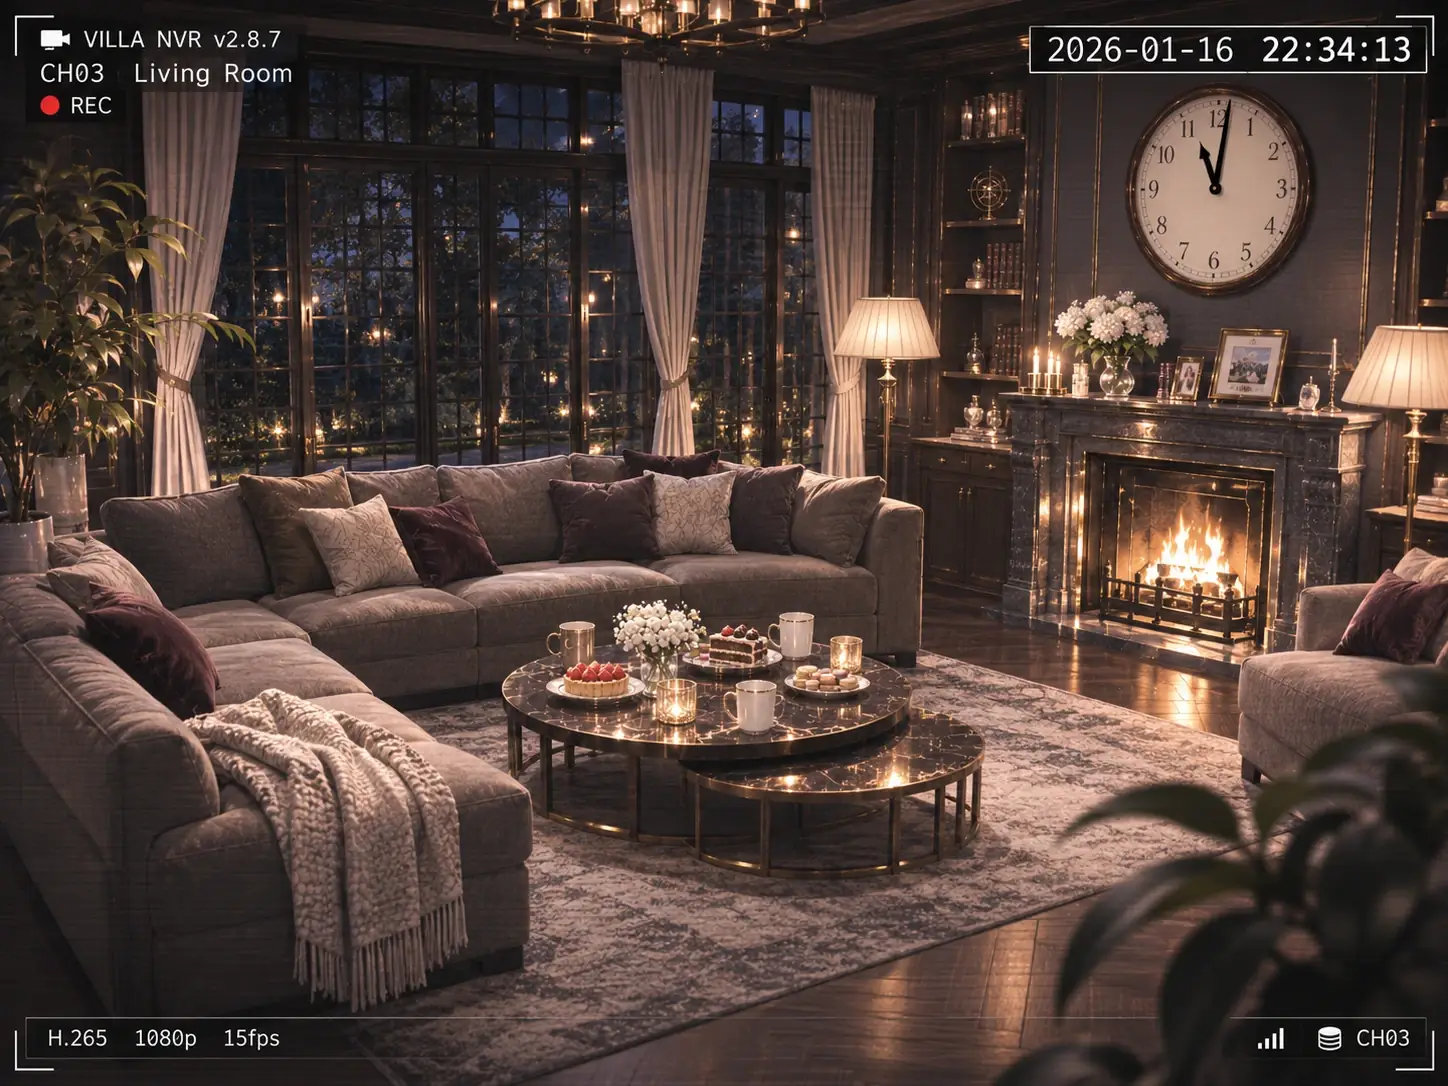
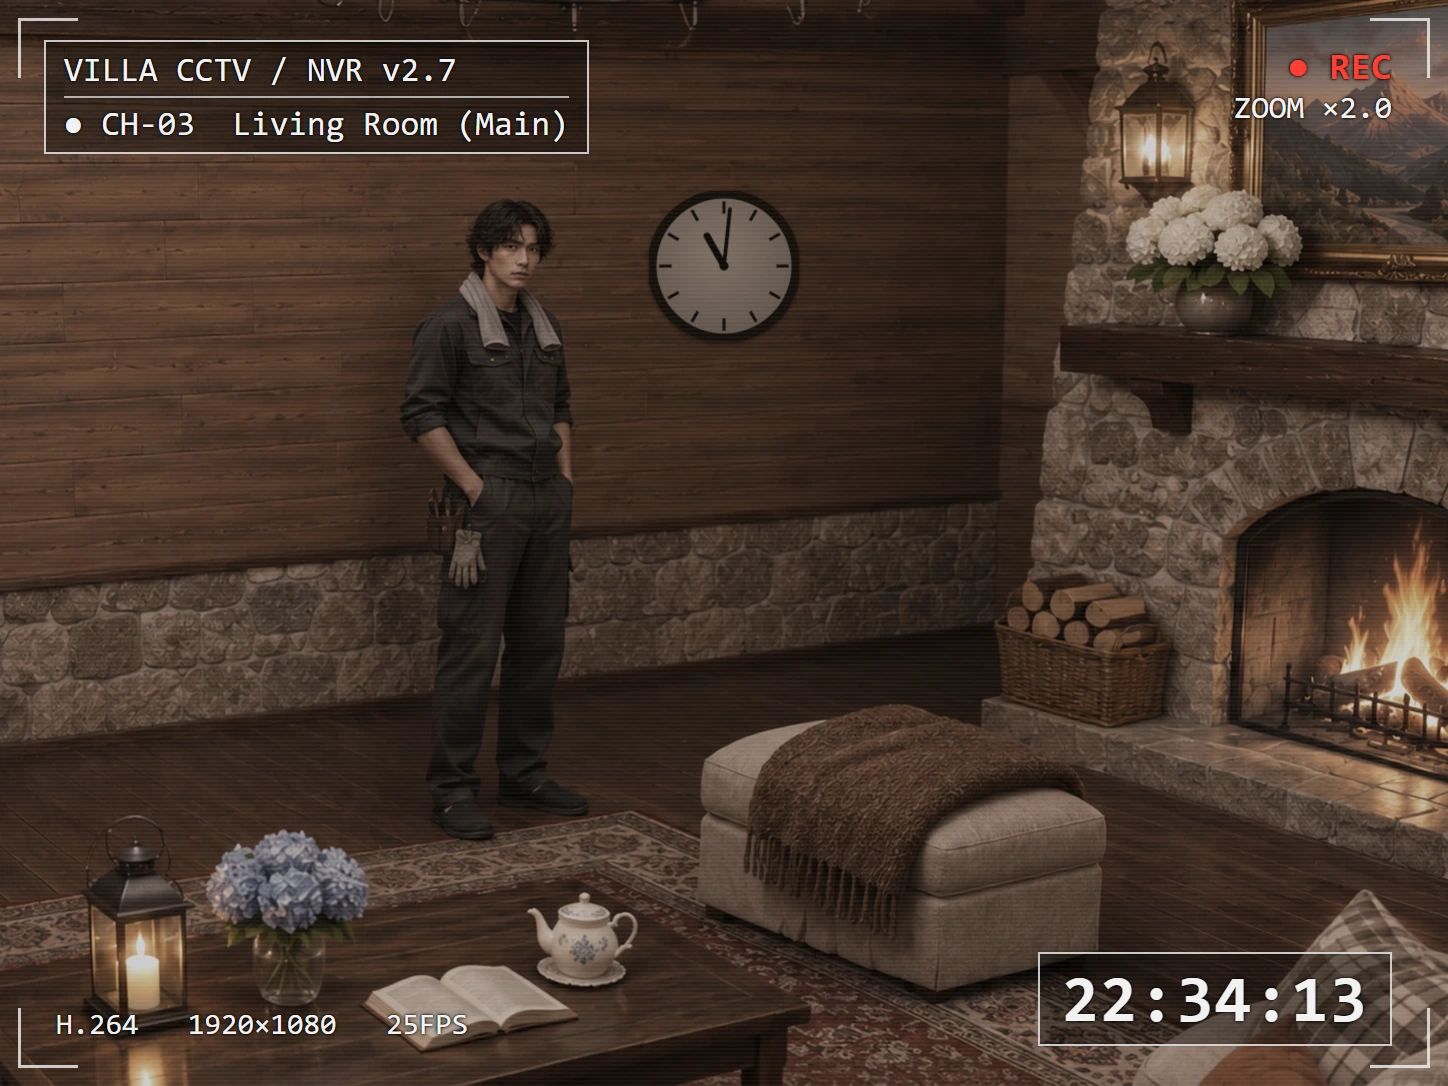
feat: apply E03/E17/E18 CCTV evidence and link E17/E18 to chapter 5 timeline

diff --git a/chapter5.js b/chapter5.js
@@ -17,6 +17,8 @@ const ALLOWED=CH4?.stage==='complete' && CH4_REQUIRED.every(id=>CH4?.solved?.inc
 const E={
  'E03':['NVR 속 벽시계','CCTV 표시 22:34:13과 실내 독립 벽시계 약 23:01을 비교하는 자료.'],
  'E04b':['정전 중 휴대폰 영상','독립적인 휴대폰의 시각과 둔탁한 소리로 사건 시간대를 추정한다.'],
+ 'E17':['NVR 22:14 복도 문 프레임','CCTV 표시 22:14인 복도 문 쪽 확대 프레임. 윤해준이 거실에서 복도 문으로 나간다. 당시 NVR 오차를 적용해 실제 시각을 구한다.'],
+ 'E18':['NVR 22:28:13 복도 문 프레임','CCTV 표시 22:28:13인 복도 문 쪽 확대 프레임. 윤해준이 복도 문으로 거실에 들어온다. 밤 정전 이후의 누적 오차를 적용해 실제 시각을 구한다.'],
  'E04d':['22:50 거실 단체사진','정전 복구 이후에도 윤해준이 사진에 보이지 않는다는 기록.'],
  'E06':['주방 경과 타이머','독립적인 복구 시각 추정에 도움이 되는 기록.'],
  'E07':['오세린 면담 녹음','22:16까지 피해자가 살아 있었고 22:30 약속을 앞두고 있었음을 뒷받침한다.'],
@@ -36,6 +38,8 @@ const E={
 };
 const EVIDENCE_IMAGES = {
   E16:'assets/evidence/e16-study-fireplace-closeup.webp',
+  E17:'assets/evidence/e17-nvr-hallway-exit-2214.webp',
+  E18:'assets/evidence/e18-nvr-hallway-return-222813.webp',
   E03:'assets/evidence/e03-nvr-wallclock-223413.webp',
   E04b:'assets/evidence/phone-video-blackout-2231.webp',
   E04d:'assets/evidence/e04d-group-photo-2250.webp',
@@ -56,12 +60,12 @@ const EVIDENCE_IMAGES = {
 };
 const FINALE_PORTRAITS={'윤해준':'yoon-haejun','이유나':'lee-yuna','장도윤':'jang-doyun'};
 const TIME=[
- {id:'left',name:'윤해준이 거실을 떠남',correct:'22:21',why:'챕터 1에서 윤해준이 분전반을 확인하러 간다며 거실을 떠난 시각을 떠올려 봐.'},
+ {id:'left',name:'윤해준이 거실을 떠남',correct:'22:21',why:'CCTV 22:14 프레임(E17)에 윤해준이 복도 문으로 나가. 그때 NVR이 오후 정전으로 얼마나 느렸는지 더해 봐.'},
  {id:'off',name:'분전반 수동 OFF',correct:'22:24',why:'분전반 독립 기록의 수동 OFF 시각을 확인해.'},
  {id:'meet',name:'서재 테라스 약속',correct:'22:30',why:'서재 메모와 면담 녹음을 교차 확인해.'},
  {id:'impact',name:'사건 발생 추정 시간대',correct:'22:40~22:42',why:'충돌음과 참고 기록이 겹치는 시간대를 찾아 봐.'},
  {id:'on',name:'전원 복구',correct:'22:44',why:'분전반 로그와 주방 타이머를 비교해.'},
- {id:'return',name:'윤해준 거실 복귀',correct:'22:55',why:'22:50 사진에는 없고, 두 번 보정한 CCTV 프레임(23:01)에는 있어. 그 사이를 골라 봐.'}
+ {id:'return',name:'윤해준 거실 복귀',correct:'22:55',why:'CCTV 22:28:13 프레임(E18)에 윤해준이 복도 문으로 들어와. 두 번의 정전으로 쌓인 NVR 오차를 모두 더해 봐.'}
 ];
 const CLOCKS=['22:16','22:21','22:24','22:27','22:30','22:34','22:40~22:42','22:44','22:50','22:55','23:01','23:34'];
 const SLOTS=[
@@ -100,9 +104,12 @@ const NOTES={
  '다뮤_':['22:50 사진에는 그 사람이 안 나왔지만, 카메라 밖에 있었을 가능성은 분리해서 생각해야지.']
 };
 const PRESERVE=['E03','E04b','E04d','E06','E07','E08','E10','E11','E12','E13','E14','E15','C01','C04','C06','C09','C10'];
+// 시간표 근거 CCTV 프레임(E17 이탈·E18 복귀): 챕터 5에서 지급. 예전 저장에도 보충(저장 형식 그대로)
+const TIME_FRAMES=['E17','E18'];
 let state=read(CH5_KEY),tab='timeline',modal=null,dialogueCallback=null,imageCache=new Map(),sequence=0,notice='';
 function valid(s){return s&&s.version===1&&['reconstruct','rebuttal','ending'].includes(s.stage)&&s.timeline&&s.slots&&s.proofs&&s.secrets&&s.rebuttals&&Array.isArray(s.evidence);}
 if(!valid(state))state=null;
+if(Array.isArray(state?.evidence))for(const id of TIME_FRAMES)if(!state.evidence.includes(id))state.evidence.push(id);
 if(state?.timelineDone)tab=state.stage==='rebuttal'?'rebuttal':'reconstruct';
 function save(){if(state){try{localStorage.setItem(CH5_KEY,JSON.stringify(state));}catch{notice='진행 내용 저장에 실패했어. 브라우저 저장 공간을 확인해 줘.';}}}
 function has(id){return !!state?.evidence.includes(id);}
@@ -113,7 +120,7 @@ function speak(lines,callback=null){dialogueCallback=callback;modal={kind:'dialo
 async function prepareLine(){if(modal?.kind!=='dialogue')return;const key=++sequence,src=portrait(...modal.lines[modal.index]);modal.loading=!!src;render();await warm(src);if(key!==sequence||modal?.kind!=='dialogue')return;modal.loading=false;render();}
 function nextLine(){if(modal?.kind!=='dialogue'||modal.loading)return;if(modal.index+1<modal.lines.length){modal.index++;prepareLine();return;}const cb=dialogueCallback;dialogueCallback=null;modal=null;render();if(cb)cb();}
 function detail(title,body,evidenceId=''){modal={kind:'detail',title,body,image:EVIDENCE_IMAGES[evidenceId]||null};render();}
-function init(){if(!ALLOWED)return;const ch4ev=CH4?.evidence||[];const ch3ev=CH3?.evidence||[];state={version:1,stage:'reconstruct',name:CH4?.name||CH3?.name||CH1?.name||'여행 친구',evidence:[...new Set([...ch3ev,...ch4ev].filter(id=>PRESERVE.includes(id)))],timeline:{},slots:{},proofs:{},secrets:{},rebuttals:{},timelineDone:false,attempts:0,ending:null,startedAt:Date.now(),finishedAt:null,log:['03:20 — 모두가 모인 자리에서 사건을 다시 정리한다.']};if(!state.evidence.includes('E03'))state.evidence.push('E03');state.evidence.push('E16');save();speak([
+function init(){if(!ALLOWED)return;const ch4ev=CH4?.evidence||[];const ch3ev=CH3?.evidence||[];state={version:1,stage:'reconstruct',name:CH4?.name||CH3?.name||CH1?.name||'여행 친구',evidence:[...new Set([...ch3ev,...ch4ev].filter(id=>PRESERVE.includes(id)))],timeline:{},slots:{},proofs:{},secrets:{},rebuttals:{},timelineDone:false,attempts:0,ending:null,startedAt:Date.now(),finishedAt:null,log:['03:20 — 모두가 모인 자리에서 사건을 다시 정리한다.']};if(!state.evidence.includes('E03'))state.evidence.push('E03');state.evidence.push('E16');for(const id of TIME_FRAMES)if(!state.evidence.includes(id))state.evidence.push(id);save();speak([
  ['내레이션','새벽 3시 20분. 비가 조금 잦아들었다. 신고를 받은 경찰이 도착하기 전, 각자가 본 것과 들은 것을 다시 정리했다.'],
  ['꾸티뉴',`${state.name}, 이상한 사람을 고르는 걸로 끝내지 말자. 우리가 무엇을 근거로 그런 생각을 했는지가 중요해.`],
  ['윤타미','NVR 시간은 두 번 달라졌어. 시계를 한 번만 고치면 나중 영상의 시각이 맞지 않아.'],

diff --git a/tests/logic-story-p1.test.js b/tests/logic-story-p1.test.js
@@ -153,5 +153,17 @@ async function fill(g, opts = {}) {
   g = boot('chapter5.js', { [K.ch4]: JSON.stringify(CH4_DONE) });
   ok(g.html().includes('마지막 추리 시작'), '챕터 4 완료 저장(이전 형식) → 챕터 5 진입 가능');
 
+  T.section('챕터 5 시간표 근거 E17·E18 (2026-11-14)');
+  g = boot('chapter5.js', { [K.ch4]: JSON.stringify(CH4_DONE) });
+  await g.click('begin'); await g.drain();
+  ok(['E17', 'E18', 'E03', 'E16'].every(id => g.save(K.ch5).evidence.includes(id)), '새 게임: 챕터 5 시작 시 E17·E18 지급(E03·E16 기존 유지)');
+  const c5now = src('chapter5.js');
+  ok(c5now.includes("E17:'assets/evidence/e17-nvr-hallway-exit-2214.webp'") && c5now.includes("E18:'assets/evidence/e18-nvr-hallway-return-222813.webp'"), 'E17·E18 이미지 경로 연결');
+  ok(['e17-nvr-hallway-exit-2214.webp', 'e18-nvr-hallway-return-222813.webp', 'e03-nvr-wallclock-223413.webp'].every(f => fs.existsSync(path.join(PROJECT_ROOT, 'assets', 'evidence', f))), 'E03·E17·E18 이미지 파일 존재');
+  ok(/id:'left'[^}]*correct:'22:21'[^}]*E17/.test(c5now) && /id:'return'[^}]*correct:'22:55'[^}]*E18/.test(c5now), '시간표 힌트가 E17(이탈)·E18(복귀)을 가리키고 정답 22:21·22:55는 그대로');
+  const legacy5 = JSON.parse(JSON.stringify(ch5ReadyToClaim())); legacy5.evidence = (legacy5.evidence || []).filter(id => id !== 'E17' && id !== 'E18');
+  g = boot('chapter5.js', { [K.ch4]: JSON.stringify(CH4_DONE), [K.ch5]: JSON.stringify(legacy5) });
+  await g.click('read', 'E18'); ok(g.html().includes('e18-nvr-hallway-return-222813.webp') && g.errors.length === 0, '예전 저장: E17·E18 보충 → E18 보기 시 이미지 표시');
+
   const r = T.done(); process.exit(r.fail ? 1 : 0);
 })().catch(e => { console.error(e); process.exit(1); });

diff --git a/docs/STORY_CANON.md b/docs/STORY_CANON.md
@@ -96,7 +96,7 @@
 
 | 이름 | 역할(확정) | 기준 이미지 | 구별 포인트 | 주요 진술 → 드러난 사실 | 확인된 이동(확정) | 알리바이 | 관련 증거 |
 |---|---|---|---|---|---|---|---|
-| **윤해준** | 기술자. 구조 점검 차 방문. **범인** | `yoon-haejun/normal.webp` (night·surprised는 상반신) | **진회색 작업복, 목에 두른 수건, 공구 파우치, 모자 없음** (꾸티뉴의 흰 페도라와 혼동 금지) | "분전반 확인하러 갔다가 복구 후 거실로"(챕터 2) → "복구 후 곧바로 거실, CCTV에 나온다"(챕터 3) | 22:12 단체사진에 없음(D21, 부재 단정 아님) / 22:21 "분전반 확인" 후 거실 이탈 / 22:31 거실에 없음(E04b) / 22:50 거실에 없음(E04d) / 실제 23:01 거실 CCTV(E02·E03 설명) / 22:55 복귀(챕터 5 정답. 근거 E18은 구현 대기, N1) | NVR 22:34:13 프레임 → 실제 23:01이므로 **무효** | C01, C02, E02, E03, E04b, E04d, E10, C10, E14, C09 |
+| **윤해준** | 기술자. 구조 점검 차 방문. **범인** | `yoon-haejun/normal.webp` (night·surprised는 상반신) | **진회색 작업복, 목에 두른 수건, 공구 파우치, 모자 없음** (꾸티뉴의 흰 페도라와 혼동 금지) | "분전반 확인하러 갔다가 복구 후 거실로"(챕터 2) → "복구 후 곧바로 거실, CCTV에 나온다"(챕터 3) | 22:12 단체사진에 없음(D21, 부재 단정 아님) / 22:21 "분전반 확인" 후 거실 이탈 / 22:31 거실에 없음(E04b) / 22:50 거실에 없음(E04d) / 실제 23:01 거실 CCTV(E02·E03 설명) / 22:55 복귀(챕터 5 정답. 근거 E18, 2026-11-14 구현) | NVR 22:34:13 프레임 → 실제 23:01이므로 **무효** | C01, C02, E02, E03, E04b, E04d, E10, C10, E14, C09 |
 | **강석훈** | 피해자. "대표"(8년 전 증축 공사 시공사 대표, D6) | 없음(대사 없음) | (결정 필요 D12) | — | 20:41 테라스에서 이유나에게 서류 봉투 전달 / 22:01 서재 입실 / 22:07~22:16 오세린 면담(생존) / 22:30 테라스 약속 / 22:41 워치 마지막 활동 / 23:34 발견 | — | E09, E08, E07, E05 |
 | **오세린** | 다큐 제작자. 과거 사고 유족(사망 작업자의 자녀, D8) | `guests/serin.webp` | 묶은 갈색 머리, 검은 점퍼, 방송 카메라 | "객실에서 편집" → 서재 면담·녹음 인정 → 유족 신분 숨김 | 22:07~22:16 서재 | — | E07, E08, C04 |
 | **이유나** | 기자 | `lee-yuna/normal.webp` | 어깨 길이 갈색 웨이브, 회갈색 블레이저, 수첩 | "따로 얘기 안 함" → 봉투 수령 인정(취재원 보호) | 20:41 테라스 | 객실(주장) | E09, E10 |
@@ -138,7 +138,7 @@
 | 22:44:05 | 재개(22:17:18부터) | 분전반 수동 ON | 분전반(지하 보일러실) | 윤해준(정답, D9) | E13, E06 역산 / 조작자 근거는 구현 대기(E-4) | 시각 확정 / 조작자는 **정답** |
 | 22:46 | | 복구 직후 영상 | 주방 | 모야(촬영) | E04c | 확정 |
 | 22:50 | (22:23) | 복구 후 거실 사진이 채팅방에 공유됨. 윤해준·강석훈 없음 | 거실 | 공유자 다뮤_ / 촬영자 미정(D10) / 등장 인원 D18 | E04d | 확정(윤해준 부재) |
-| 22:55 | (22:28:13) | 윤해준 거실 복귀(남쪽 벽 복도 문으로 입실) | 거실 | 윤해준 | 챕터 5 `TIME.return` / E18(구현 대기, N1) | **정답** (게임 안 근거는 E18 구현 전까지 소거법) |
+| 22:55 | (22:28:13) | 윤해준 거실 복귀(남쪽 벽 복도 문으로 입실) | 거실 | 윤해준 | 챕터 5 `TIME.return` / E18(2026-11-14 구현, N1) | **정답** (게임 안 근거는 E18 구현 전까지 소거법) |
 | 23:01 | **22:34:13** | 윤해준이 찍힌 거실 프레임, 벽시계 약 23:01 | 거실 | 윤해준 | E02(챕터 3), E03, P06 | 확정 |
 | 23:20 | | 주방 타이머 00:36 촬영 → 복구 약 22:44 | 주방 | 모야 | E06 | 확정 |
 | 23:34 | | 비상키 개방, 강석훈 발견 | 서재 | 최도식·이유나·오세린 외 | E08, 챕터 2 | 확정 |
@@ -193,8 +193,8 @@
 
 | ID | 결정 | 상태 |
 |---|---|---|
-| N1 | 22:55 복귀의 근거 = 새 증거 E18(NVR 표시 22:28:13 → 실제 22:55 입실 프레임) + 만조의 목격 진술(시각만) | 채택. **구현 보류**(CH-03 기준 이미지 → E17 → E18 순서). 이미지 명세 SPEC §2-3 |
-| N2 | 22:21 이탈의 근거 = 새 증거 E17(NVR 표시 22:14 퇴장 프레임) | 채택. **구현 보류**(CH-03 기준 이미지 필요). 이미지 명세 SPEC §2-3. 1차로 챕터 5 시간표 힌트만 챕터 1 장면을 가리키게 수정 |
+| N1 | 22:55 복귀의 근거 = 새 증거 E18(NVR 표시 22:28:13 → 실제 22:55 입실 프레임) + 만조의 목격 진술(시각만) | 채택. **구현(2026-11-14)**: E17·E18 이미지 적용, 챕터 5 시작 시 지급, 시간표 힌트 연결. (이전 메모: CH-03 기준 이미지 → E17 → E18 순서). 이미지 명세 SPEC §2-3 |
+| N2 | 22:21 이탈의 근거 = 새 증거 E17(NVR 표시 22:14 퇴장 프레임) | 채택. **구현(2026-11-14, 챕터 5 지급·힌트 연결)**. 이전 메모: 구현 보류(CH-03 기준 이미지 필요). 이미지 명세 SPEC §2-3. 1차로 챕터 5 시간표 힌트만 챕터 1 장면을 가리키게 수정 |
 | N3 | 부지깽이 근거 = E16을 챕터 4에서 얻고 관찰 단서 추가(검토안: 손잡이 쪽만 그을음이 닦인 흔적) | 채택. **다음 단계**(E16 이동과 함께) |
 | N4 | 챕터 4 P11에서 오세린·박태성을 빼고 챕터 5 숨은 진실에서 추리 | 채택. **다음 단계** |
 | N5 | 엔딩에서 윤해준은 부분 인정(동기까지 맞히면 전부 털어놓음) | 채택. **다음 단계**(엔딩 구조 변경) |
